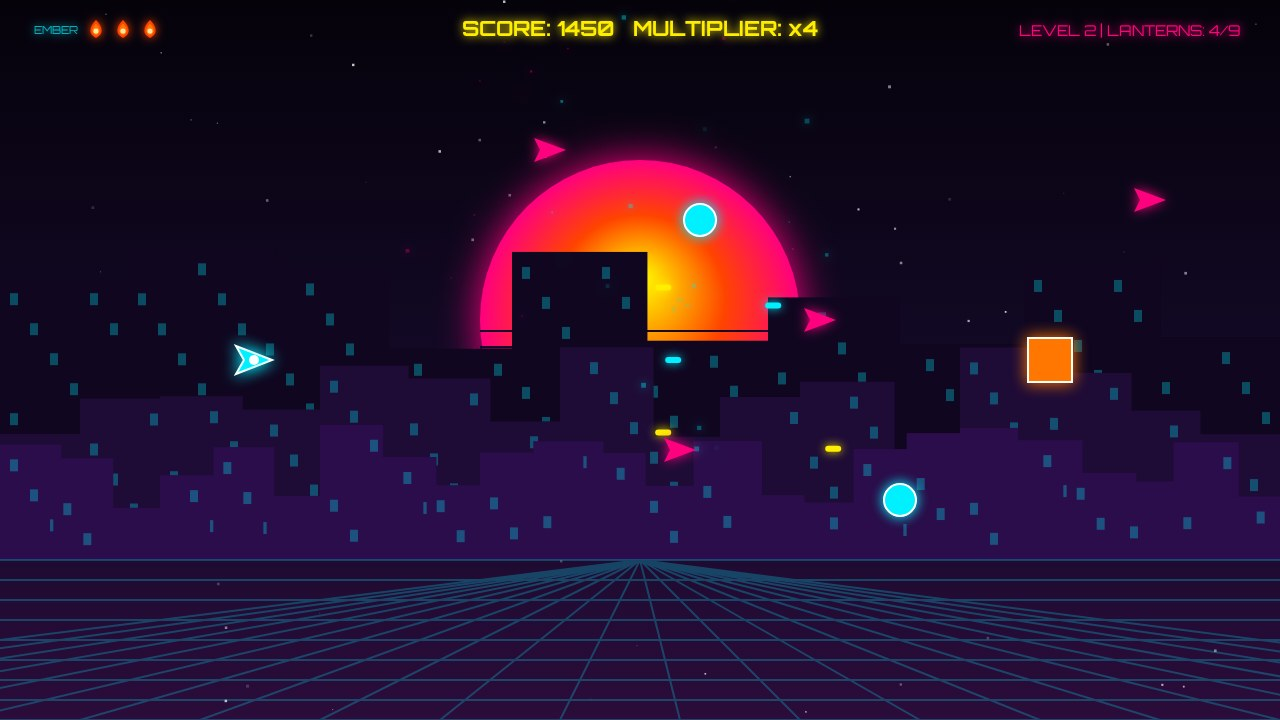
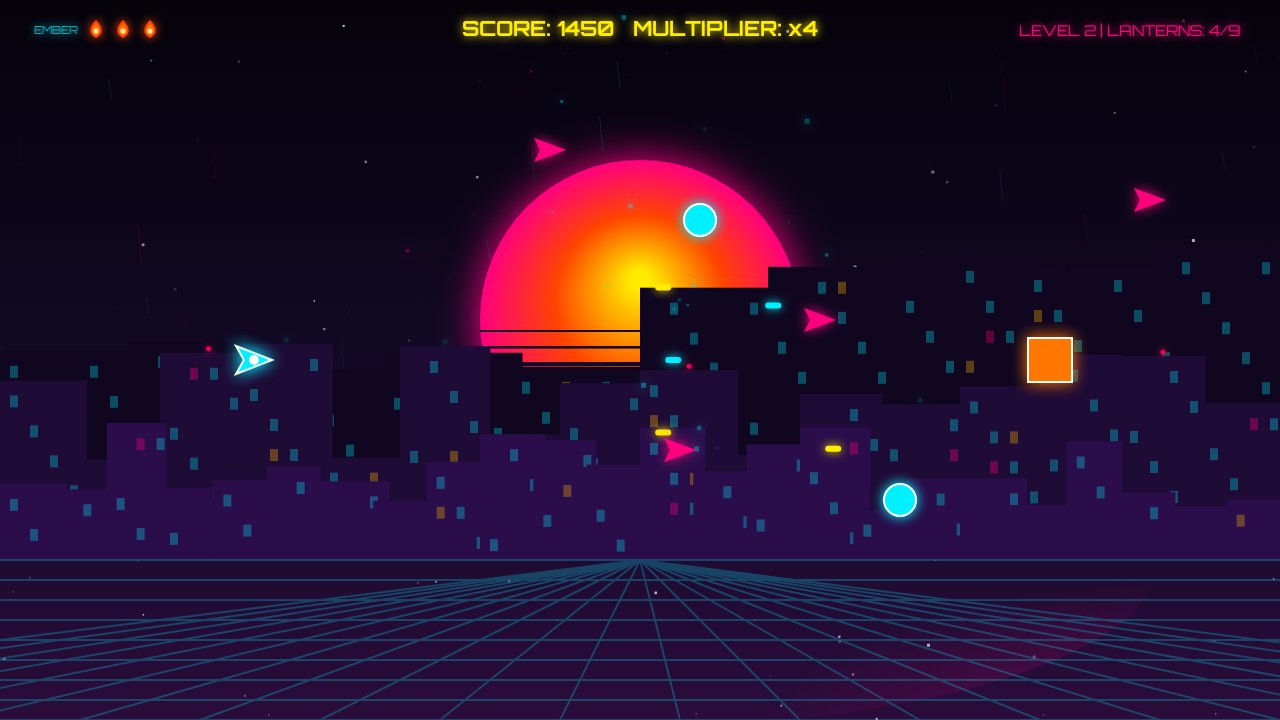
Correction: v4 shipped without background polish (lost pre-commit); re-implemented post-submission, screenshots re-taken, victory banding fixed

diff --git a/review/v4/README.md b/review/v4/README.md
@@ -14,7 +14,7 @@
 - **Boss bar**: `THE HOLLOW CROWN` — violet→magenta gradient bar, gold 25/75 ticks, shown only while the boss lives (new trailing optional arg to `HUD.draw`).
 - **Score popups**: `+N` floaters on every kill/boss death (`Orbitron 20px`, rise + fade, 0.9 s).
 - **Rising embers** on title / victory / gameover (35 % chance per frame via the particle system).
-- **Background**: horizon haze glow band, neon rain streaks, blinking rooftop beacons on the mid skyline.
+- **Background polish was NOT in v4.** The Gemini 04-53 session had implemented horizon haze + neon rain + rooftop beacons in `game/src/background.js`, but a later failed session left the working tree reverted for that file; it was never re-added, never committed, and **is absent from `c7bb7bd`**. The shipped background is the v3 one (skyline + sun + grid). It has been re-implemented locally on 2026-11-17T05:45Z **after** submission (unverified-for-entry, screenshots re-taken) and is what a possible v5 would carry.
 - Fallback text fonts swapped from Courier New to Orbitron (the headless judge has no Courier New).
 - Fix in the same arc: explicit `document.fonts.load()` + re-render — the first painted frame used to precede font decode and kept the serif fallback (title looked broken in the shot harness).
 
@@ -43,10 +43,11 @@ Read it like this:
 
 Output: a `DIRECTOR QUESTION:`-style reply **on this PR** (or a spec under `missions/M11-…` if it grows into one). **Spec language, not paste-ready patches** (DIRECTIVES §3). Ground rules fully apply: no secrets, no assets beyond the repo, deadline real, implementing agent ships code in recorded sessions.
 
-1. **Bug hunt on v4** — read `v4-code.diff` with the screenshots. Specific suspected weak spots, ranked by damage done to the *contact sheet* (the judge never plays):
+1. **Bug hunt on v4** — read `v4-code.diff` with the screenshots. Note: the diff is ground truth; any claim of background haze/rain/beacons in the shipped commit is wrong (see the correction above). The screenshots in this folder are the post-submission re-takes that include the local re-implementation. Specific suspected weak spots, ranked by damage done to the *contact sheet* (the judge never plays):
    - Victory screen composition: cover at α 0.52 + dark overlay + grid behind it — there is a visible horizontal banding artifact around the wordmark (see `4-victory.jpg`). Is that banding unacceptable, and if so what's the spec-level fix (composition, alpha, gradient, crop)?
    - The title's fallback path (cover not yet decoded) draws legacy layout text; is a brief flash of fallback ever visible in the 4 judged shots, or is the explicit `document.fonts.load` + re-render good enough?
    - `HUD.draw(..., boss)` trailing optional arg — any risk the grader's outline parse misreads it? (Outline shows first declarations only.)
+   - The v4 submission lost its `background.js` changes to tooling churn: what review process would have caught that before commit? (For v5: `git status` + `git diff --stat` immediately before `git add -A`, and `makefun check`'s snapshot diff as a backstop.)
    - Rain streaks alpha 0.06–0.15 — visible or noise at contact-sheet scale? Beacons indices hardcoded (`[2,3,5,8,11,14]`) — do they land on building middles in frame?
    - Popups use `this.enemies.boss.hp` when boss dies → boss removed from `this` in the same branch; confirm no stale read, no NaN path.
    - `ember-wing-cover.jpg` ~108 KB + fonts ~90 KB: snapshot 698 KB total — fine vs caps; any judge optics risk from AI-generated art (originality/authenticity wording in README)?

diff --git a/STATUS.md b/STATUS.md
@@ -39,5 +39,6 @@ _Last updated by the director, 2026-11-17T04:10Z._
 - Submission `01a1e7f4-4935-725b-bcd9-e86056e11616` (title shown publicly: "Ember Wing"), HTTP 202, signed entry message, 8-session bundle (v3's 5 + v4's 3), `makefun check` 13/0, claim code in vault.
 - **Dev heat (provisional, vs fixed house images, never weighed)**: expected **64.8069 %** (3 W / 3 D / 6 L, 90 % interval 59.71–69.91) vs v3's **68.8505 %** (7 W / 0 D / 5 L). Delta inside the interval — not a measured regression; both v3 and v4 are outside the provisional reward cut-off (~93 %).
 - **Final heat re-judges every entry from scratch after 2026-11-18T18:10Z** (playoff → Bradley–Terry → top-5 review); result due **2026-12-03T06:10Z**. The last entry before the deadline is what counts: **v4 is the entry of record**.
+- **Correction (2026-11-17T05:45Z)**: the neon rain / horizon haze / rooftop beacons mentioned above were NOT part of the submitted v4 (`background.js` changes were lost in Gemini churn; never committed). They were re-implemented locally after submission (screenshots re-taken, zero console errors); v4 as judged = v3 background + cover/fonts/HUD/popups. For a possible v5, re-include them and verify `git diff --stat` before commit.
 - Quota: 1 left today (resets 2026-11-18T00:00Z); 6 of 10 total.
 - See `review/v4/README.md` — analysis request sent to Luna (bugs, in-rules polish, ship/freeze/revert call). Last submission-time advice: freeze unless Luna finds contact-sheet-level breakage.
